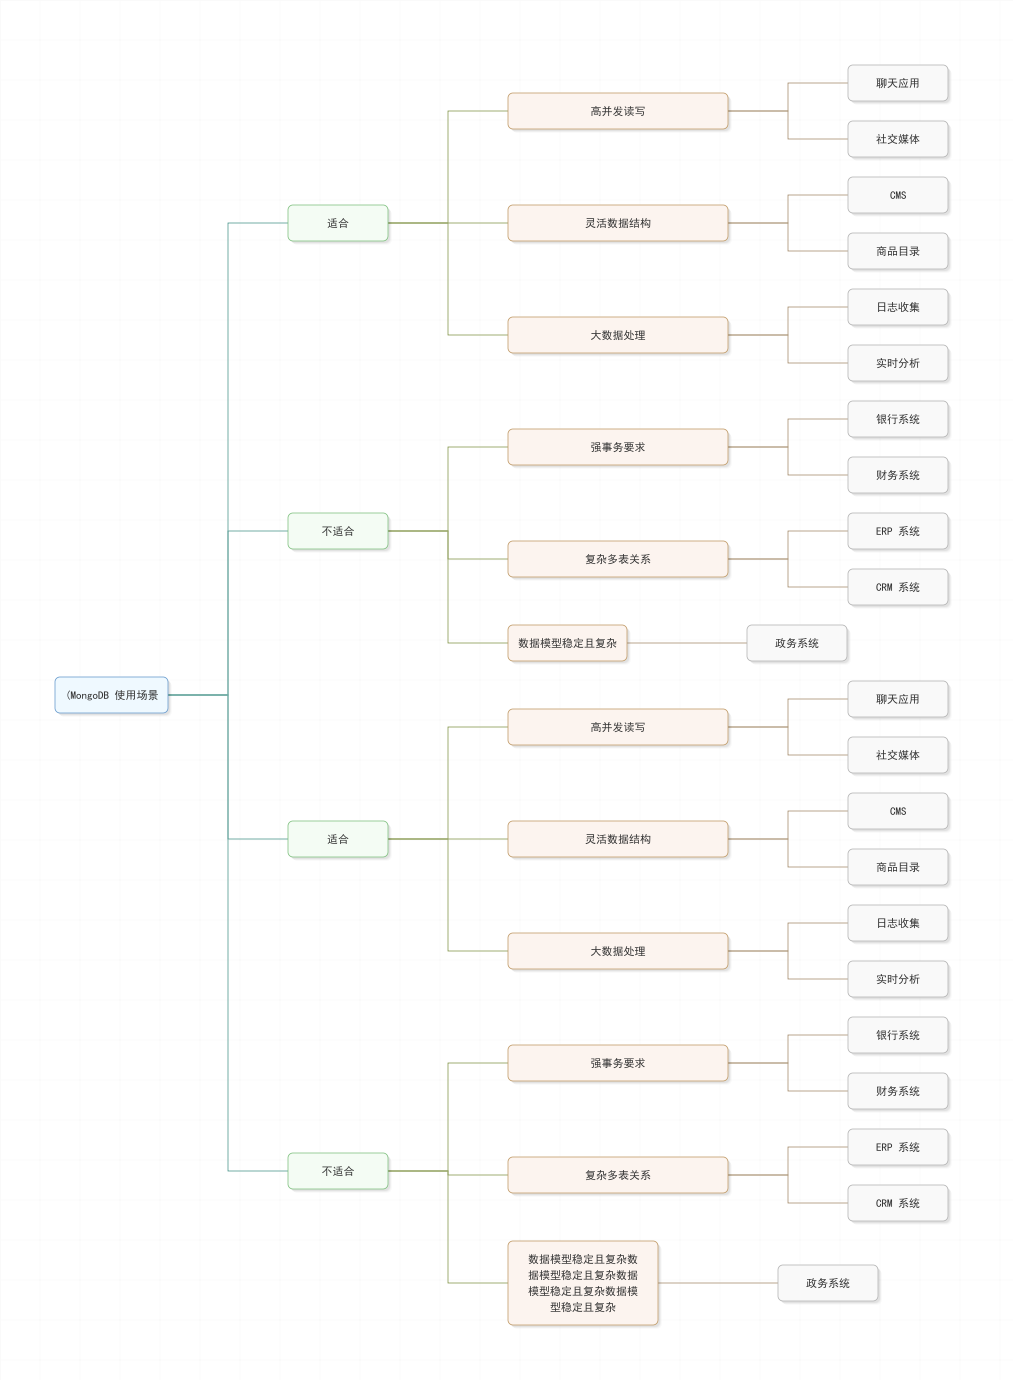
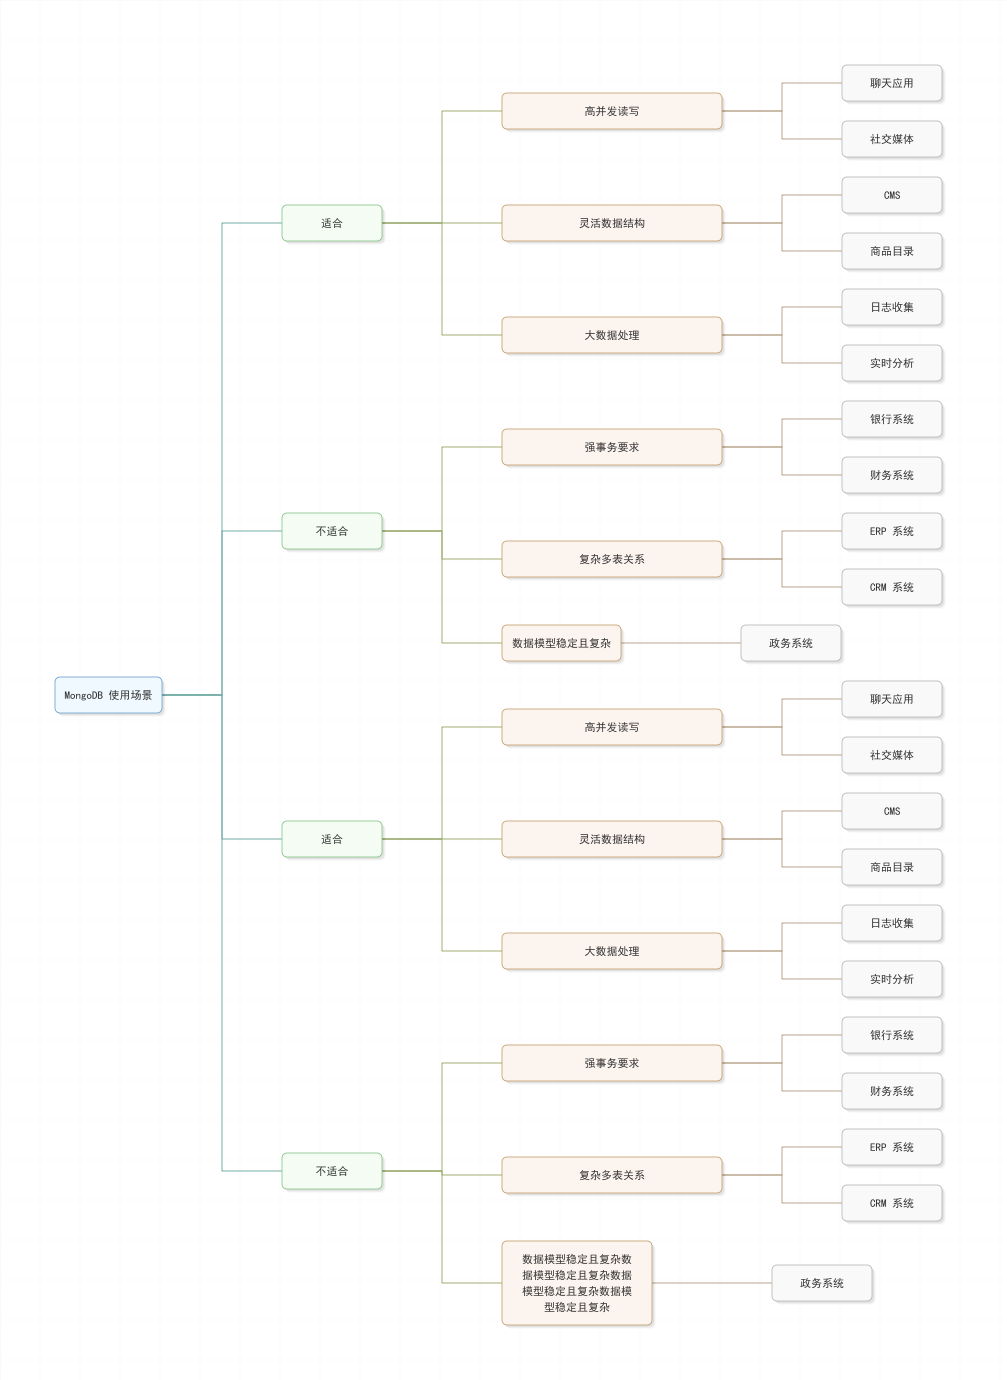
fix

diff --git a/internal/parser/parser.go b/internal/parser/parser.go
@@ -172,11 +172,6 @@ func countIndentation(line string) int {
 func cleanText(text string) string {
 	// 删除前缀的空格、制表符和破折号
 	text = strings.TrimLeft(text, " \t-")
-	// 清理括号
-	text = strings.TrimSuffix(text, ")")
-	text = strings.TrimPrefix(text, "(")
-	text = strings.TrimPrefix(text, "(")
-	text = strings.TrimSuffix(text, ")")
 	return strings.TrimSpace(text)
 }
 
@@ -194,10 +189,6 @@ func cleanRootText(text string) string {
 	if len(matches) > 1 {
 		return matches[1]
 	}
-
-	// 如果不匹配双括号模式，清理单括号
-	text = strings.TrimPrefix(text, "(")
-	text = strings.TrimSuffix(text, ")")
 
 	return strings.TrimSpace(text)
 }

diff --git a/cmd/mindmapgen/main.go b/cmd/mindmapgen/main.go
@@ -40,9 +40,6 @@ func main() {
 		log.Fatalf("Failed to parse input file '%s': %v", *inputFile, err)
 	}
 
-	// Apply layout (if needed - depends on whether layout is done in Draw)
-	// layout.Layout(root) // Assuming layout logic is handled within Draw or not needed separately anymore
-
 	// Draw the mind map
 	err = drawer.Draw(root, *outputFile)
 	if err != nil {
